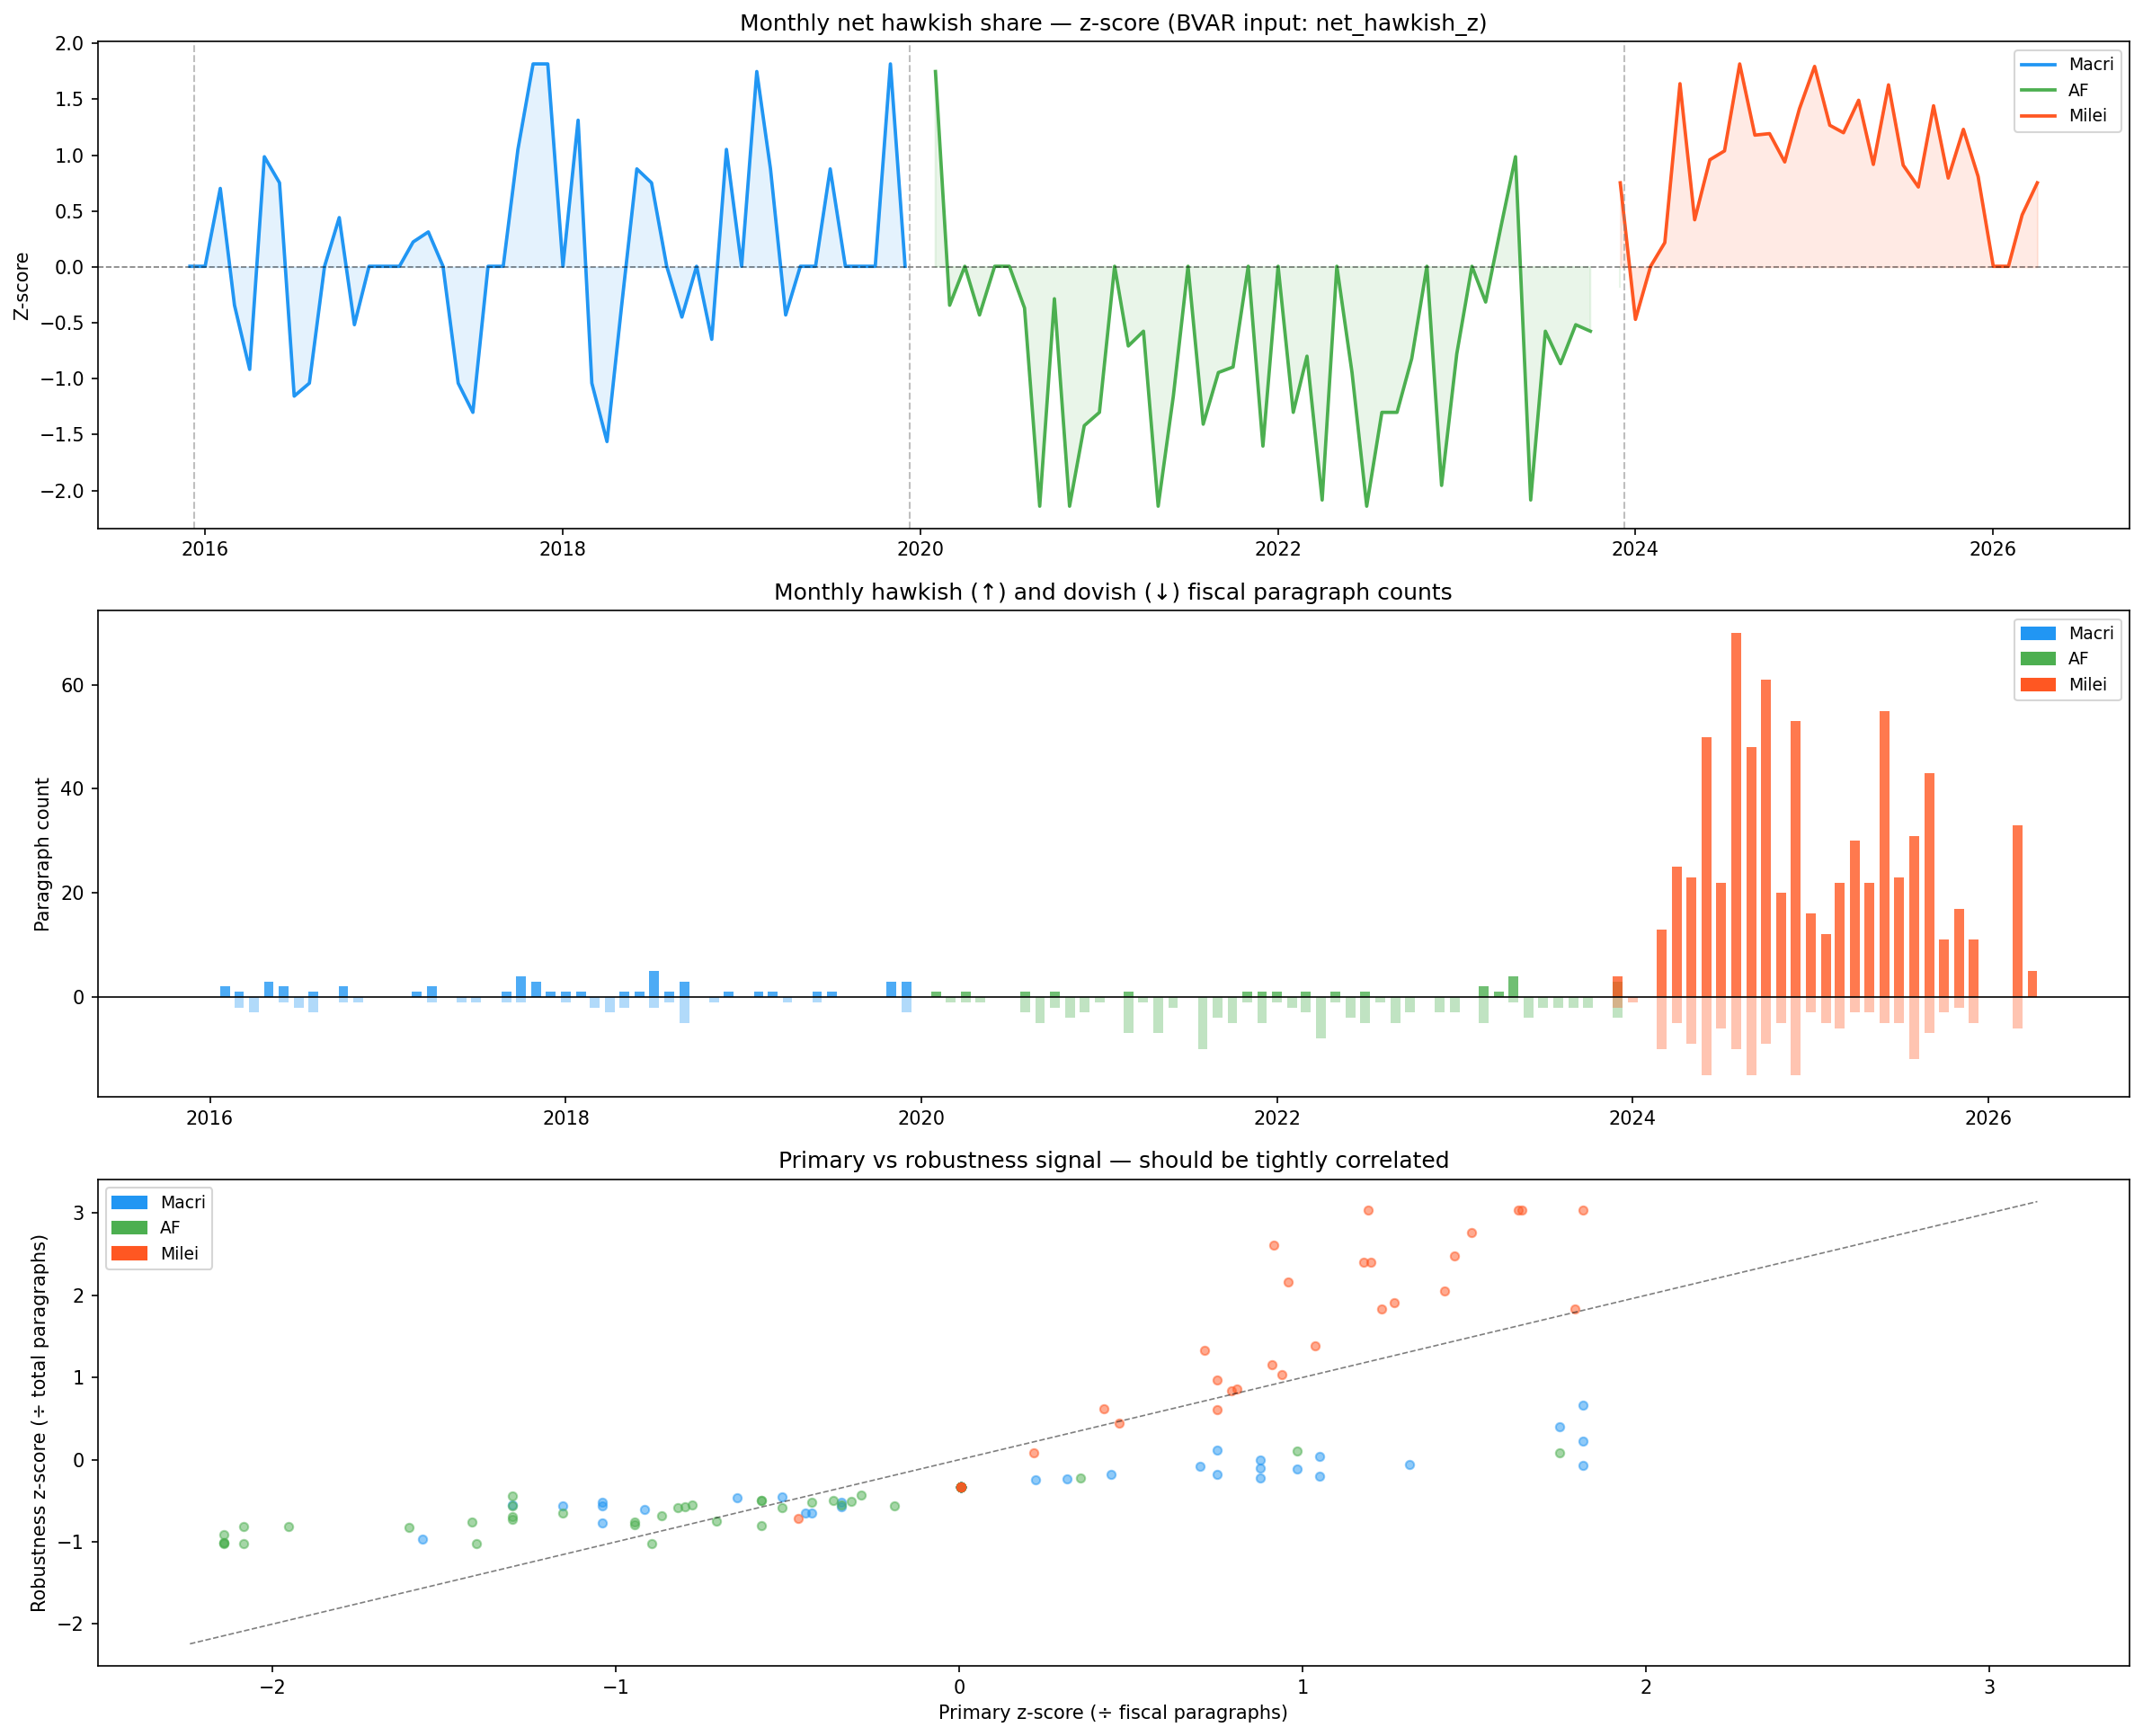
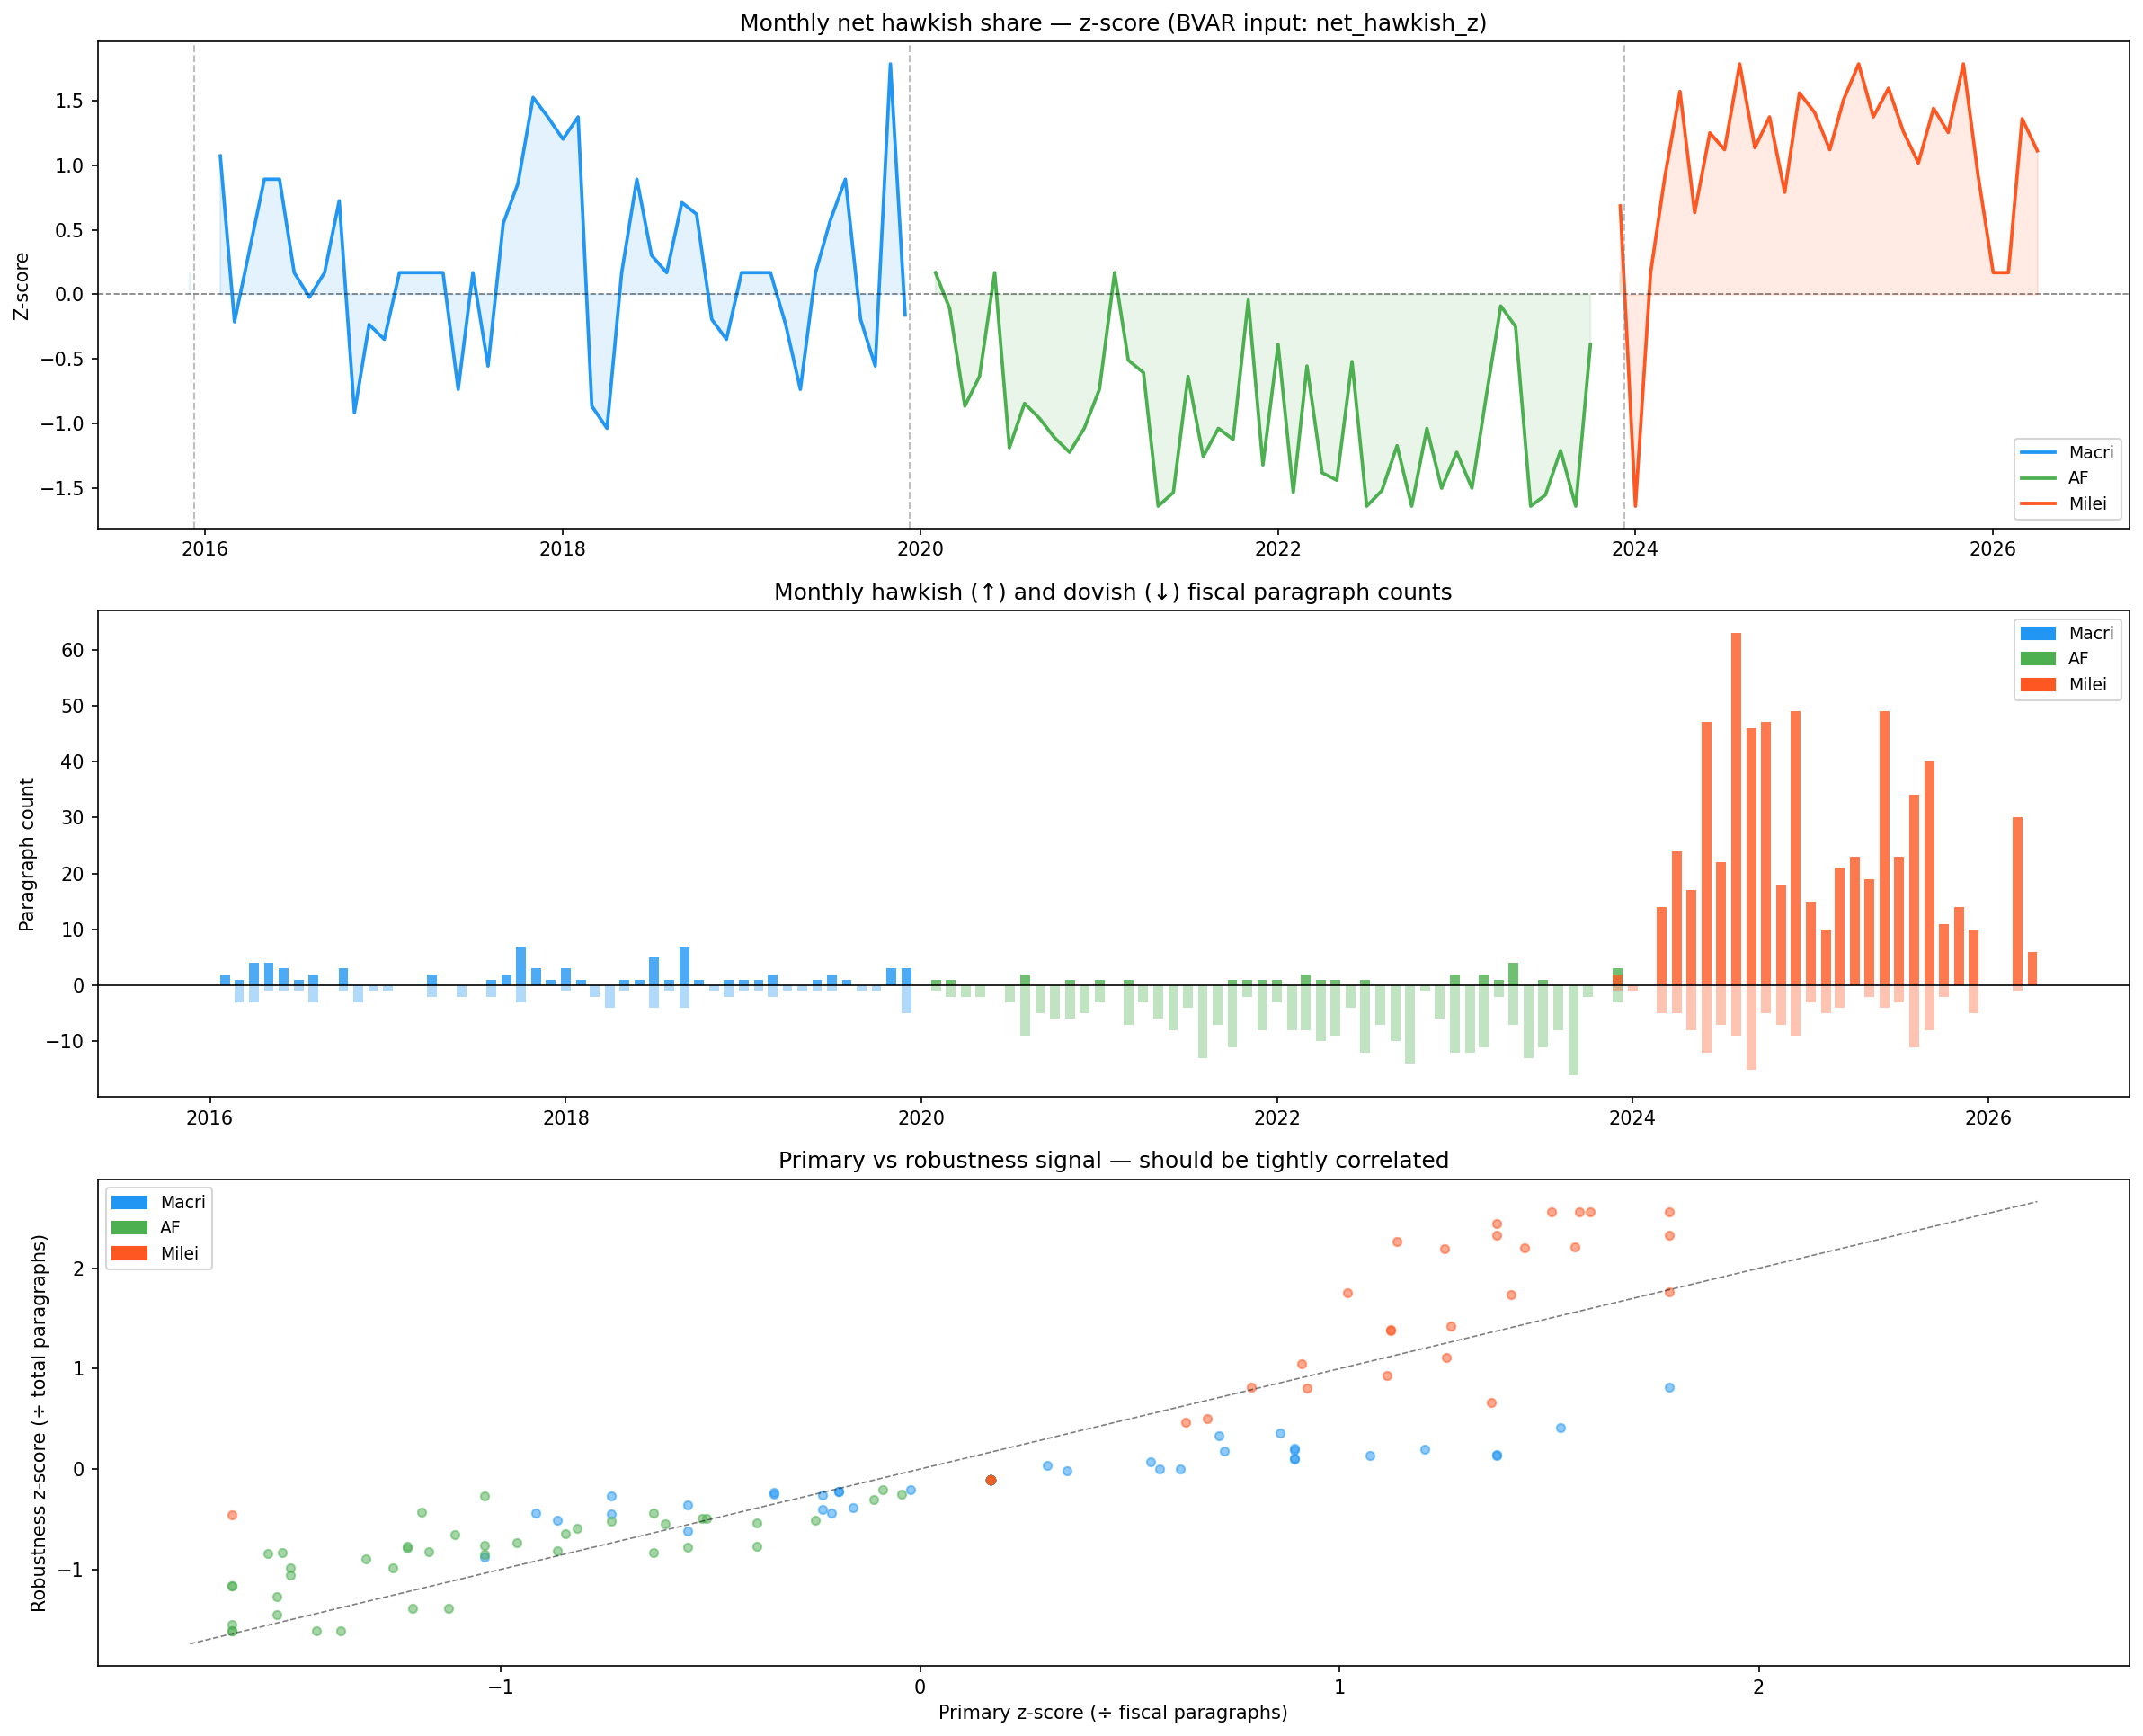
commit new signal

diff --git a/signal/scoring/tfidf_dictionary.py b/signal/scoring/tfidf_dictionary.py
@@ -1,14 +1,24 @@
 """
-signal/scoring/tfidf_dictionary.py  (v6 — EPU-style paragraph counting)
+signal/scoring/tfidf_dictionary.py  (v7 — keyword fiscal filter)
 ────────────────────────────────────────────────────────────────────────
 Stage 4 of the signal pipeline.
 
 Signal construction follows Baker, Bloom & Davis (2016) EPU methodology:
 
-    Stage 1 — LDA fiscal filter (lda.py)
-        Each paragraph is labelled fiscal if fiscal_topic_prob ≥ FISCAL_MIN_PROB.
-        This is a binary, clean gate — the relevance decision is fully separated
-        from the directional decision.
+    Stage 1 — Keyword fiscal filter (this script)
+        A paragraph is labelled fiscal if it contains at least one term from
+        FISCAL_KEYWORDS — a short list of core fiscal-policy vocabulary drawn
+        directly from the Baker–Bloom–Davis (2016) article-filtering approach.
+        This replaces the v6 LDA-threshold filter.
+
+        Rationale: the LDA filter (v6) created an asymmetric bias — it captured
+        ~84% of hawkish hits but only ~40% of dovish hits, because hawkish terms
+        are inherently fiscal-accounting vocabulary (deficit, superavit) while
+        dovish terms include social-spending vocabulary (obra publica, tarjeta
+        alimentar) that the LDA assigned to a separate welfare topic.
+        A keyword filter is symmetric: it admits paragraphs that discuss fiscal
+        policy in either direction.  LDA topic probabilities are retained in
+        paragraphs_scored.csv for use as a validation/narrative exhibit.
 
     Stage 2 — Dictionary direction (this script)
         Within fiscal paragraphs only, each paragraph casts a directional vote:
@@ -35,8 +45,8 @@ Signal construction follows Baker, Bloom & Davis (2016) EPU methodology:
 
         Primary BVAR column: net_hawkish_z  in monthly_signal.csv
 
-Negation detection (unchanged from v5)
-───────────────────────────────────────
+Negation detection (unchanged from v5/v6)
+──────────────────────────────────────────
 Before counting a dictionary hit, a word-window before the match is scanned
 for critical/ironic usage signals (Tier 1, 10-word window) and bare negation
 words (Tier 2, 3-word window).  Negated hits are tracked separately and
@@ -54,6 +64,7 @@ Writes
     data/interim/paragraphs_scored.csv       paragraph-level with hit flags
     data/interim/speeches_scored.csv         speech-level counts
     data/interim/monthly_signal.csv          monthly BVAR-ready signal
+    data/processed/bvar_signal.csv           clean BVAR-ready output
     outputs/figures/scoring_overview.png     summary charts
     outputs/tables/scoring_summary.txt       audit report
 """
@@ -84,17 +95,40 @@ TABLES_DIR  = os.path.join(_ROOT, "outputs", "tables")
 PRES_ORDER  = ["Macri", "AF", "Milei"]
 PRES_COLORS = {"Macri": "#2196F3", "AF": "#4CAF50", "Milei": "#FF5722"}
 
-# Fiscal paragraph threshold — paragraphs with fiscal_topic_prob below this
-# value are excluded from signal construction entirely.
-# Applied directly from fiscal_topic_prob so you can tune here without
-# re-running the 40-minute LDA.  lda.py encodes FISCAL_MIN_PROB=0.25 in the
-# is_fiscal column, but this script overrides it at load time.
+# ── Keyword fiscal filter (v7) ────────────────────────────────────────────────
+# A paragraph is classified as fiscal if it contains at least one of these
+# terms.  Follows Baker, Bloom & Davis (2016): fiscal relevance is determined
+# by keyword presence, not a topic model.
 #
-# Chosen value: 0.15 (primary).
-#   — At 0.25: 165 Macri fiscal paras, 41/49 months covered, std(net_hawkish)=0.40
-#   — At 0.15: 478 Macri fiscal paras, 49/49 months covered, std(net_hawkish)=0.18
-#   Pearson r between 0.15 and 0.25 signals = 0.748 (threshold sensitivity check).
-FISCAL_MIN_PROB = 0.15
+# Design principles:
+#   1. Symmetric — list covers both hawkish fiscal vocabulary (deficit,
+#      ajuste, presupuesto) and dovish fiscal vocabulary (obra publica,
+#      inversion publica, subsidio) so neither direction is disadvantaged.
+#   2. Short and auditable — each term is immediately legible; no model
+#      artefacts or threshold choices.
+#   3. Directly citable — Baker et al. (2016) Appendix B uses the same
+#      keyword-in-text approach for their EPU fiscal policy category.
+#
+# LDA fiscal_topic_prob is retained in the data for validation purposes.
+FISCAL_KEYWORDS = [
+    # Core fiscal / budget vocabulary
+    "deficit",
+    "superavit",
+    "gasto",          # gasto* matches gasto, gastos, gasto publico etc.
+    "presupuest",     # presupuesto, presupuestario, presupuestaria
+    "fiscal",
+    "impuesto",       # impuesto, impuestos, impositivo
+    "deuda",
+    "inflacion",
+    "ajuste",
+    "subsidio",       # subsidio, subsidios
+    "recaudacion",
+    "austeridad",
+    # Public investment / social spending (ensures dovish content is captured)
+    "obra publica",
+    "inversion publica",
+    "inversion social",
+]
 
 # ── Negation detection ────────────────────────────────────────────────────────
 NEG_WINDOW_STRONG = 10   # words before match: critical-framing signals
@@ -183,6 +217,33 @@ def load_dictionary(path: str) -> list[tuple[str, re.Pattern]]:
             terms.append(normalise(line))
     unique_terms = sorted(set(terms), key=len, reverse=True)
     return [(t, term_to_pattern(t)) for t in unique_terms]
+
+
+# ── Keyword fiscal filter (v7) ────────────────────────────────────────────────
+
+def build_fiscal_patterns() -> list[re.Pattern]:
+    """
+    Compile regex patterns for the keyword fiscal filter.
+    Each keyword gets a \\w* suffix for morphological flexibility,
+    consistent with how dictionary terms are matched.
+    """
+    patterns = []
+    for kw in FISCAL_KEYWORDS:
+        norm = normalise(kw)
+        words = norm.split()
+        pat = re.compile(
+            r"\b" + r"\s+".join(re.escape(w) + r"\w*" for w in words)
+        )
+        patterns.append(pat)
+    return patterns
+
+
+_FISCAL_PATTERNS: list[re.Pattern] = []   # populated in run()
+
+
+def is_fiscal_paragraph(text_norm: str) -> bool:
+    """Return True if the normalised paragraph text contains any fiscal keyword."""
+    return any(pat.search(text_norm) for pat in _FISCAL_PATTERNS)
 
 
 # ── Paragraph-level scoring ───────────────────────────────────────────────────
@@ -453,15 +514,32 @@ def run():
         )
     para_df = pd.read_csv(PARA_CSV)
     para_df = para_df[para_df["president"].isin(PRES_ORDER)].copy()
-    # Override is_fiscal from fiscal_topic_prob so threshold can be tuned here
-    # without re-running lda.py.  Robustness flag uses stricter 0.25 threshold.
-    # Override is_fiscal from fiscal_topic_prob so threshold can be tuned
-    # here without re-running lda.py.
-    para_df["is_fiscal"] = para_df["fiscal_topic_prob"] >= FISCAL_MIN_PROB
+
+    # ── v7: keyword fiscal filter ─────────────────────────────────────────────
+    # Build compiled patterns (populate module-level list used by is_fiscal_paragraph)
+    global _FISCAL_PATTERNS
+    _FISCAL_PATTERNS = build_fiscal_patterns()
+    print(f"  Fiscal keyword filter: {len(FISCAL_KEYWORDS)} keywords")
+
+    # Apply filter on normalised text — symmetric for hawkish and dovish content
+    para_df["text_norm"] = para_df["text_para"].apply(
+        lambda t: normalise(str(t))
+    )
+    para_df["is_fiscal"] = para_df["text_norm"].apply(is_fiscal_paragraph)
+    # Retain LDA fiscal_topic_prob column for validation exhibit (not used for scoring)
+
     n_total  = len(para_df)
     n_fiscal = para_df["is_fiscal"].sum()
     print(f"  {n_total:,} paragraphs loaded")
-    print(f"  {n_fiscal:,} fiscal at threshold={FISCAL_MIN_PROB} ({n_fiscal/n_total*100:.1f}%)")
+    print(f"  {n_fiscal:,} fiscal by keyword filter ({n_fiscal/n_total*100:.1f}%)")
+
+    # Overlap with LDA filter (validation check)
+    if "fiscal_topic_prob" in para_df.columns:
+        lda_fiscal = para_df["fiscal_topic_prob"] >= 0.15
+        overlap = (para_df["is_fiscal"] & lda_fiscal).sum()
+        kw_only = (para_df["is_fiscal"] & ~lda_fiscal).sum()
+        lda_only = (~para_df["is_fiscal"] & lda_fiscal).sum()
+        print(f"  LDA/keyword overlap: both={overlap:,} | kw-only={kw_only:,} | lda-only={lda_only:,}")
 
     # ── 3. Score each paragraph (all paragraphs — filter applied at step 4) ──
     print("\nScoring paragraphs (negation-aware, sentence-level)...")
@@ -503,6 +581,7 @@ def run():
     drop_cols = [
         "hawkish_terms_matched", "dovish_terms_matched",
         "hawkish_terms_negated", "dovish_terms_negated",
+        "text_norm",
     ]
     para_out = os.path.join(INTERIM_DIR, "paragraphs_scored.csv")
     para_scored.drop(columns=drop_cols, errors="ignore").to_csv(para_out, index=False)
@@ -515,6 +594,15 @@ def run():
     monthly_out = os.path.join(INTERIM_DIR, "monthly_signal.csv")
     monthly_df.to_csv(monthly_out, index=False)
     print(f"Saved: {monthly_out}")
+
+    # Clean BVAR-ready output (minimal columns)
+    processed_dir = os.path.join(_ROOT, "data", "processed")
+    os.makedirs(processed_dir, exist_ok=True)
+    bvar_cols = ["year_month", "president", "net_hawkish_z", "net_hawkish_z_raw",
+                 "net_hawkish_rob_z", "H_t", "D_t", "n_fiscal_paras", "n_speeches"]
+    bvar_out = os.path.join(processed_dir, "bvar_signal.csv")
+    monthly_df[[c for c in bvar_cols if c in monthly_df.columns]].to_csv(bvar_out, index=False)
+    print(f"Saved: {bvar_out}")
 
     # ── 7. Plots ──────────────────────────────────────────────────────────────
     print("\nGenerating plots...")
@@ -567,9 +655,10 @@ def run():
 
     # ── 9. Summary text ───────────────────────────────────────────────────────
     lines = [
-        "=== DICTIONARY SCORING SUMMARY (v6 — EPU-style paragraph counting) ===",
+        "=== DICTIONARY SCORING SUMMARY (v7 — keyword fiscal filter) ===",
         f"Hawkish terms : {len(hawkish_patterns)}",
         f"Dovish terms  : {len(dovish_patterns)}",
+        f"Fiscal keywords: {len(FISCAL_KEYWORDS)}",
         "",
         f"Total paragraphs : {n_total:,}",
         f"Fiscal paragraphs: {n_fiscal:,} ({n_fiscal/n_total*100:.1f}%)",